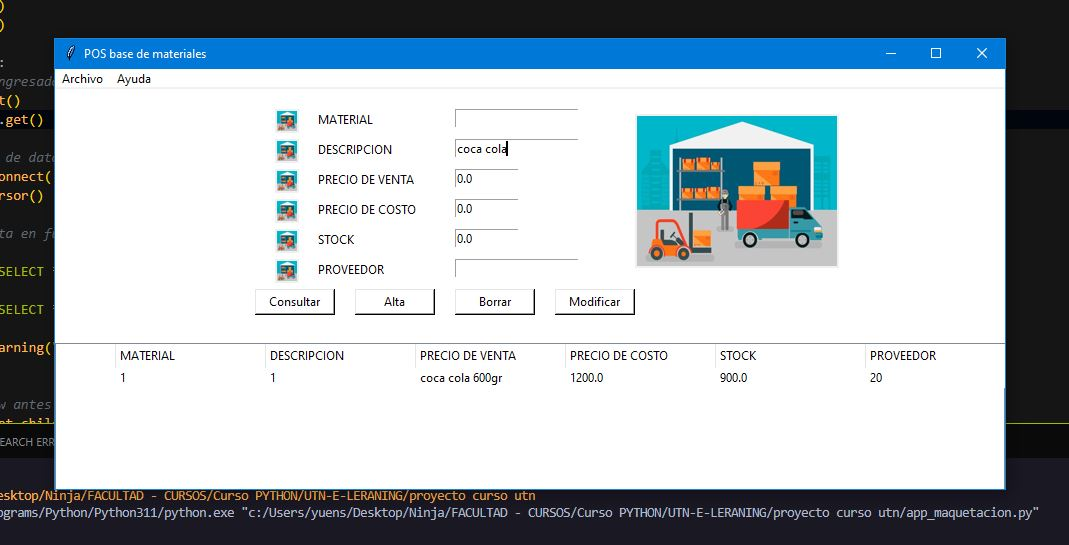
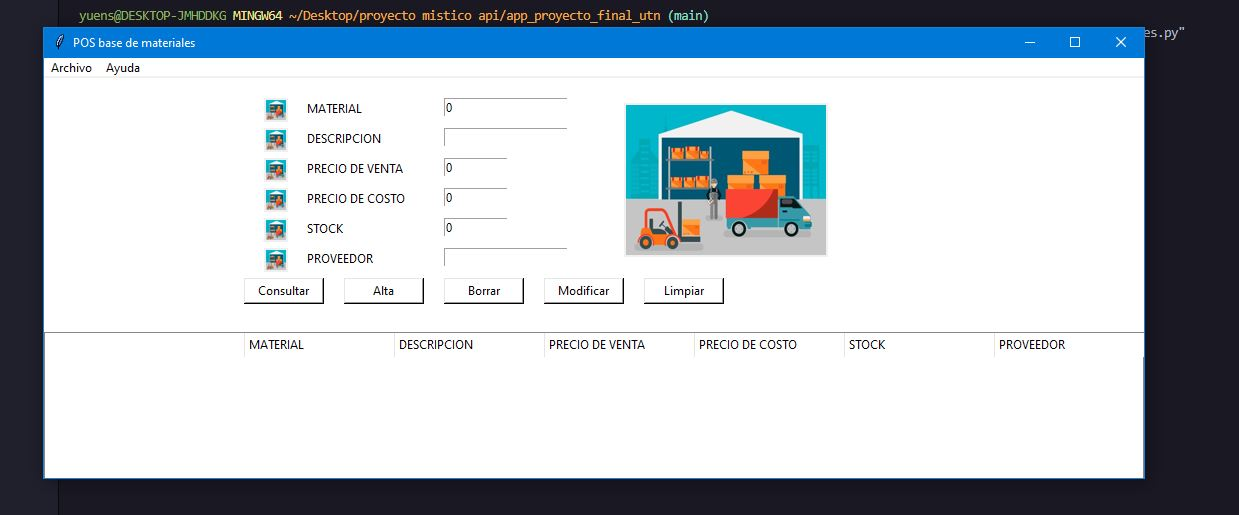
arreglo al treeview

diff --git a/app_pos_materiales.py b/app_pos_materiales.py
@@ -453,7 +453,7 @@ menubar.add_cascade(label="Archivo", menu=filemenu)
 
 # Menú de ayuda
 helpmenu = Menu(menubar, tearoff=False)
-helpmenu.add_command(label="Ayuda", command=mostrar_ayuda)
+helpmenu.add_command(label="Guia", command=mostrar_ayuda)
 
 # Añadir el menú "Ayuda" al menú principal
 menubar.add_cascade(label="Ayuda", menu=helpmenu)
@@ -526,8 +526,8 @@ button5.place(x=600, y=200)
 # donde se va a mostrar la previsualizacion de los datos
 tree = ttk.Treeview(app)
 # Columnas del Treeview
-tree["columns"] = ("1", "2", "3", "4", "5", "6")
-
+tree["columns"] = ("0","1", "2", "3", "4", "5", "6")
+tree.column("0", width=50, anchor=W)
 tree.column("1", width=150, minwidth=150)
 tree.column("2", width=150, minwidth=150)
 tree.column("3", width=150, minwidth=150)
@@ -535,6 +535,7 @@ tree.column("4", width=150, minwidth=150)
 tree.column("5", width=150, minwidth=150)
 tree.column("6", width=150, minwidth=150)
 # Encabezados del Treeview
+tree.heading("0", text="ID")
 tree.heading("1", text="MATERIAL", anchor=W)
 tree.heading("2", text="DESCRIPCION", anchor=W)
 tree.heading("3", text="PRECIO DE VENTA", anchor=W)
